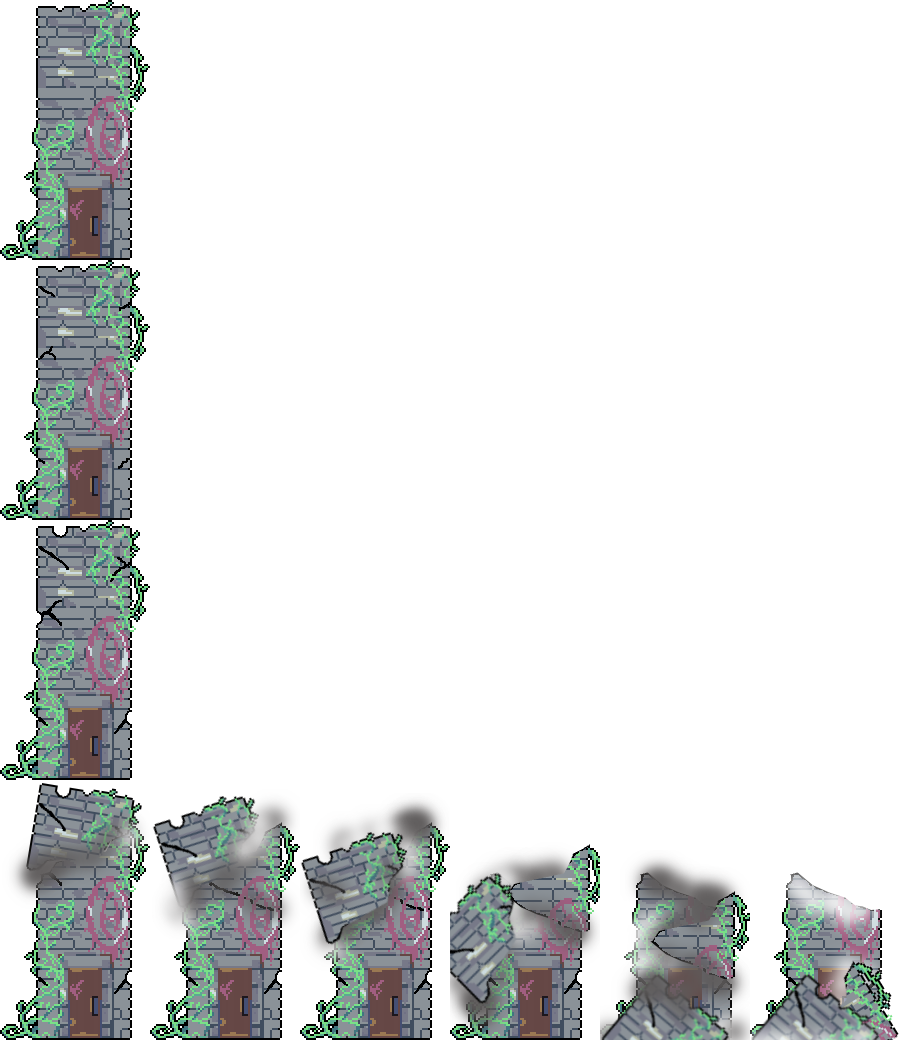
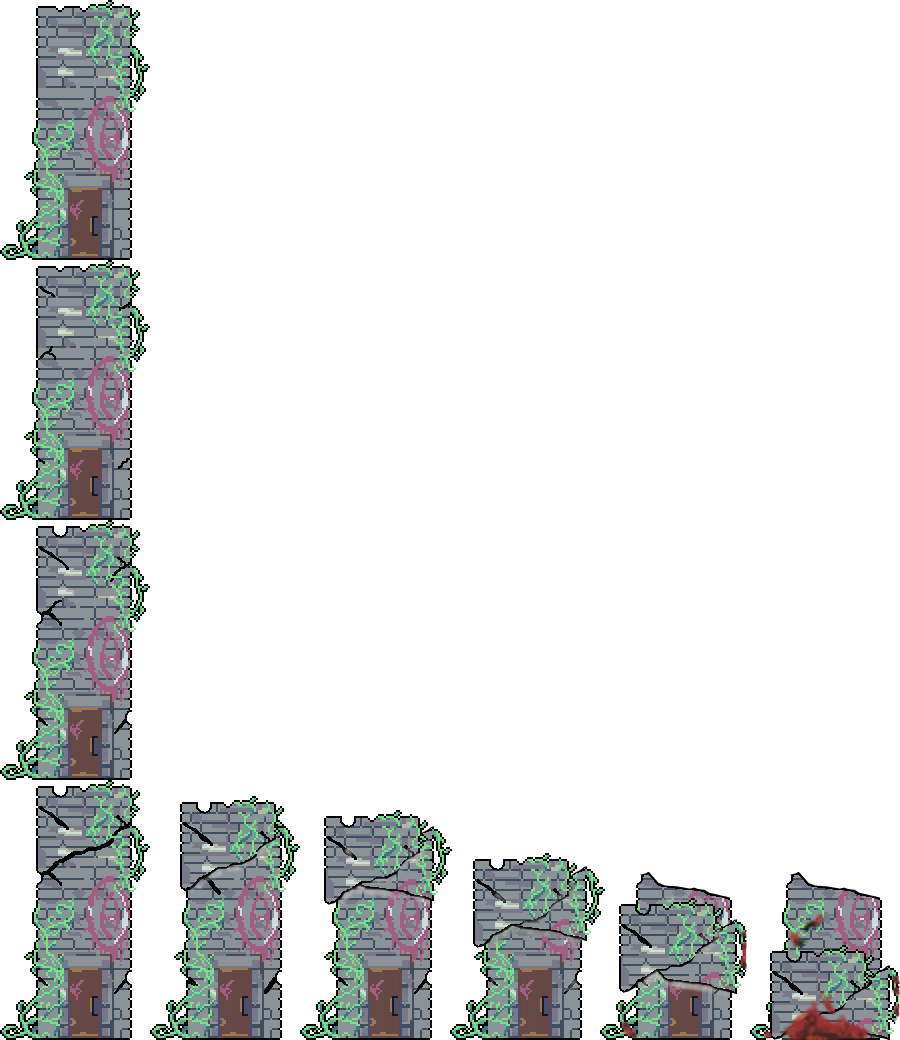
bug fixed and tower animation added

Changed region(s): [[0.0, 0.7385, 1.0, 1.0]]

diff --git a/src/it/unibs/pajc/baresi/level/Level.java b/src/it/unibs/pajc/baresi/level/Level.java
@@ -15,7 +15,7 @@ import java.util.Random;
 public class Level {
 
     public static final int MAX_MONEY = 1000;
-    public static final int MONEY = 10;
+    public static final int MONEY = 50;
 
     private MobList mobList;
 
@@ -42,6 +42,8 @@ public class Level {
         mobList = new MobList();
 
         tower = new Tower(new Point(enemySpawn.x - 100, enemySpawn.y), 1000);
+
+        mobList.setTower(tower);
         // TODO bomb = new Bomb(new Point(enemySpawn.x - 80, enemySpawn.y + 30));
     }
 
@@ -83,7 +85,7 @@ public class Level {
                 Mob.FAST,
                 1500,
                 200,
-                100,
+                110,
                 150,
                 Sound.DRAGON_ATTACK,
                 new DragonSprite(64));
@@ -97,7 +99,7 @@ public class Level {
                 Mob.SLOW,
                 2000,
                 400,
-                40,
+                20,
                 300,
                 Sound.GOLEM_ATTACK,
                 new GolemSprite(64));
@@ -196,7 +198,7 @@ public class Level {
         Random random = new Random();
 
         // TODO BETTER
-        if (mobList.enemyNumber() < 10 && timer%random.nextInt(1, (int) (15_000 - Math.min(0.05 * timer, 8_000))) == 0) {
+        if (mobList.enemyNumber() < 5 && timer%random.nextInt(1, (int) (15_000 - Math.min(0.05 * timer, 8_000))) == 0) {
             if (random.nextInt(5) != 0) addSkeleton();
             else addGhoul();
         }
@@ -217,14 +219,16 @@ public class Level {
                 case MOVE -> {
                     if (mobList.allyCollision(mob))
                         mob.idle();
-                    else if (mobList.opponentCollision(mob, firstOpponent))
-                        mob.attack(firstOpponent);
-                    else if (troop && !iterator.hasNext() && mobList.towerCollision(mob)) {
+                    else if (troop && mobList.towerCollision(mob)) {
                         mob.attack(tower);
                     }
+                    else if (mobList.opponentCollision(mob, firstOpponent))
+                        mob.attack(firstOpponent);
                 }
                 case ATTACK -> {
-                    if (!mobList.opponentCollision(mob, firstOpponent))
+                    if (troop && mobList.towerCollision(mob))
+                        mob.attack(tower);
+                    else if (!mobList.opponentCollision(mob, firstOpponent))
                         mob.move();
                     else
                         mob.attack(firstOpponent);

diff --git a/src/it/unibs/pajc/baresi/entity/Tower.java b/src/it/unibs/pajc/baresi/entity/Tower.java
@@ -12,6 +12,9 @@ public class Tower extends Entity {
         INTACT, COMPROMISED, DAMAGED, DESTROYED
     }
 
+    private long timer;
+    private int index;
+
     public final double maxHealth;
 
     private State state;
@@ -25,41 +28,47 @@ public class Tower extends Entity {
         maxHealth = health;
         state = State.INTACT;
 
+        index = 0;
+
         assets = TowerAsset.INTACT;
     }
 
     @Override
     public Rectangle getBounds() {
-        return null;
+        return new Rectangle((int) (x + assets[0].getWidth() / 5.), (int) y, (int) (assets[0].getWidth() / 5. * 4), assets[0].getHeight());
     }
 
     public void update() {
-        double healthOffset = maxHealth - health;
 
         switch (state) {
             case INTACT -> {
-                if (healthOffset < 0.75 * maxHealth) {
+                if (health < 0.75 * maxHealth) {
                     state = State.COMPROMISED;
                     assets = TowerAsset.COMPROMISED;
                 }
             }
             case COMPROMISED -> {
-                if (healthOffset < 0.25 * maxHealth) {
+                if (health < 0.25 * maxHealth) {
                     state = State.DAMAGED;
                     assets = TowerAsset.DAMAGED;
                 }
             }
             case DAMAGED -> {
-                if (healthOffset <= 0) {
+                if (health <= 0) {
                     state = State.DESTROYED;
                     assets = TowerAsset.DESTROYED;
+                    timer = System.currentTimeMillis();
                 }
             }
         }
     }
 
     public void render(Screen screen) {
-        screen.renderAsset((int) x, (int) y, TowerAsset.INTACT[0]);
-        screen.renderAsset((int) x - 100, (int) y, TowerAsset.COMPROMISED[0]);
+        if (state == State.DESTROYED && System.currentTimeMillis() > timer + 150 && index < assets.length - 1) {
+            index += 1;
+            timer = System.currentTimeMillis();
+        }
+
+        screen.renderAsset((int) x, (int) y, assets[index]);
     }
 }

diff --git a/src/it/unibs/pajc/baresi/entity/Mob.java b/src/it/unibs/pajc/baresi/entity/Mob.java
@@ -56,8 +56,6 @@ public class Mob extends Entity {
 
     private Mob prev;
 
-    private boolean alive;
-
     private boolean wait;
 
     private int soundIndex;
@@ -73,7 +71,6 @@ public class Mob extends Entity {
         this.price = price;
         this.soundIndex = soundIndex;
 
-        alive = true;
         idle();
     }
 
@@ -110,16 +107,16 @@ public class Mob extends Entity {
         }
 
         // mob attacks only when the attack animation is ended
-        if (anim == sprites.length - 1) {
-            if (opponent != null && opponent.isAlive())
+        if (anim == sprites.length - 1 && wait) {
+            if (opponent != null && opponent.isAlive()) {
                 opponent.hit(damage);
+            }
             wait = false;
         }
     }
 
     public void death() {
         if (state != State.DEATH) {
-            alive = false;
             state = State.DEATH;
             anim = 0;
             counter = 0;
@@ -189,11 +186,12 @@ public class Mob extends Entity {
 
         anim = (++counter / (GAP)) % sprites.length;
 
-        counter %= GAP * (sprites.length - 1);
+        counter %= GAP * sprites.length;
 
         //  if (state == 2 && opponent != null) opponent.hit(damage);
 
-        if (health <= 0) death();
+        if (health <= 0)
+            death();
 
         playSE();
     }

diff --git a/src/it/unibs/pajc/baresi/graphic/asset/Asset.java b/src/it/unibs/pajc/baresi/graphic/asset/Asset.java
@@ -13,7 +13,7 @@ public abstract class Asset {
         pixels = new int[width * height];
         for (int y = 0; y < height; y++) {
             for (int x = 0; x < width; x++) {
-                pixels[x + y * width] = sheet.getPixels()[(x + column * height) + (y + row * width) * sheet.getWidth()];
+                pixels[x + y * width] = sheet.getPixels()[(x + column * width) + (y + row * height) * sheet.getWidth()];
             }
         }
     }

diff --git a/src/it/unibs/pajc/baresi/controller/Game.java b/src/it/unibs/pajc/baresi/controller/Game.java
@@ -105,7 +105,7 @@ public class Game extends Canvas implements Runnable {
         );
 
         // TODO ADD CONST
-        level = new Level(new Point(0, gameHeight - 15), new Point(1200, gameHeight - 15));
+        level = new Level(new Point(0, gameHeight - 17), new Point(1200, gameHeight - 17));
         screen = new Screen(gameWidth, gameHeight);
         uiManager = new UIManager((int) (gameWidth * scale));
 

diff --git a/src/it/unibs/pajc/baresi/EntryPoint.java b/src/it/unibs/pajc/baresi/EntryPoint.java
@@ -37,7 +37,7 @@ public class EntryPoint {
             throw new RuntimeException(e);
         }
 
-        double scale = Math.min(bounds.getWidth() / width, bounds.getHeight() / height);
+        double scale = Math.min(bounds.getWidth() / width, (bounds.getHeight() - 50) / height);
         String title = "The Tower";
 
         // initializing the game

diff --git a/src/it/unibs/pajc/baresi/graphic/asset/sprite/SpriteSheet.java b/src/it/unibs/pajc/baresi/graphic/asset/sprite/SpriteSheet.java
@@ -43,6 +43,10 @@ public class SpriteSheet {
         return width;
     }
 
+    public int getHeight() {
+        return height;
+    }
+
     public int[] getPixels() {
         return pixels;
     }

diff --git a/src/it/unibs/pajc/baresi/entity/Entity.java b/src/it/unibs/pajc/baresi/entity/Entity.java
@@ -24,7 +24,7 @@ public abstract class Entity {
     }
 
     public boolean isAlive() {
-        return true;
+        return health > 0;
     }
 
     public boolean isRemoved() {
